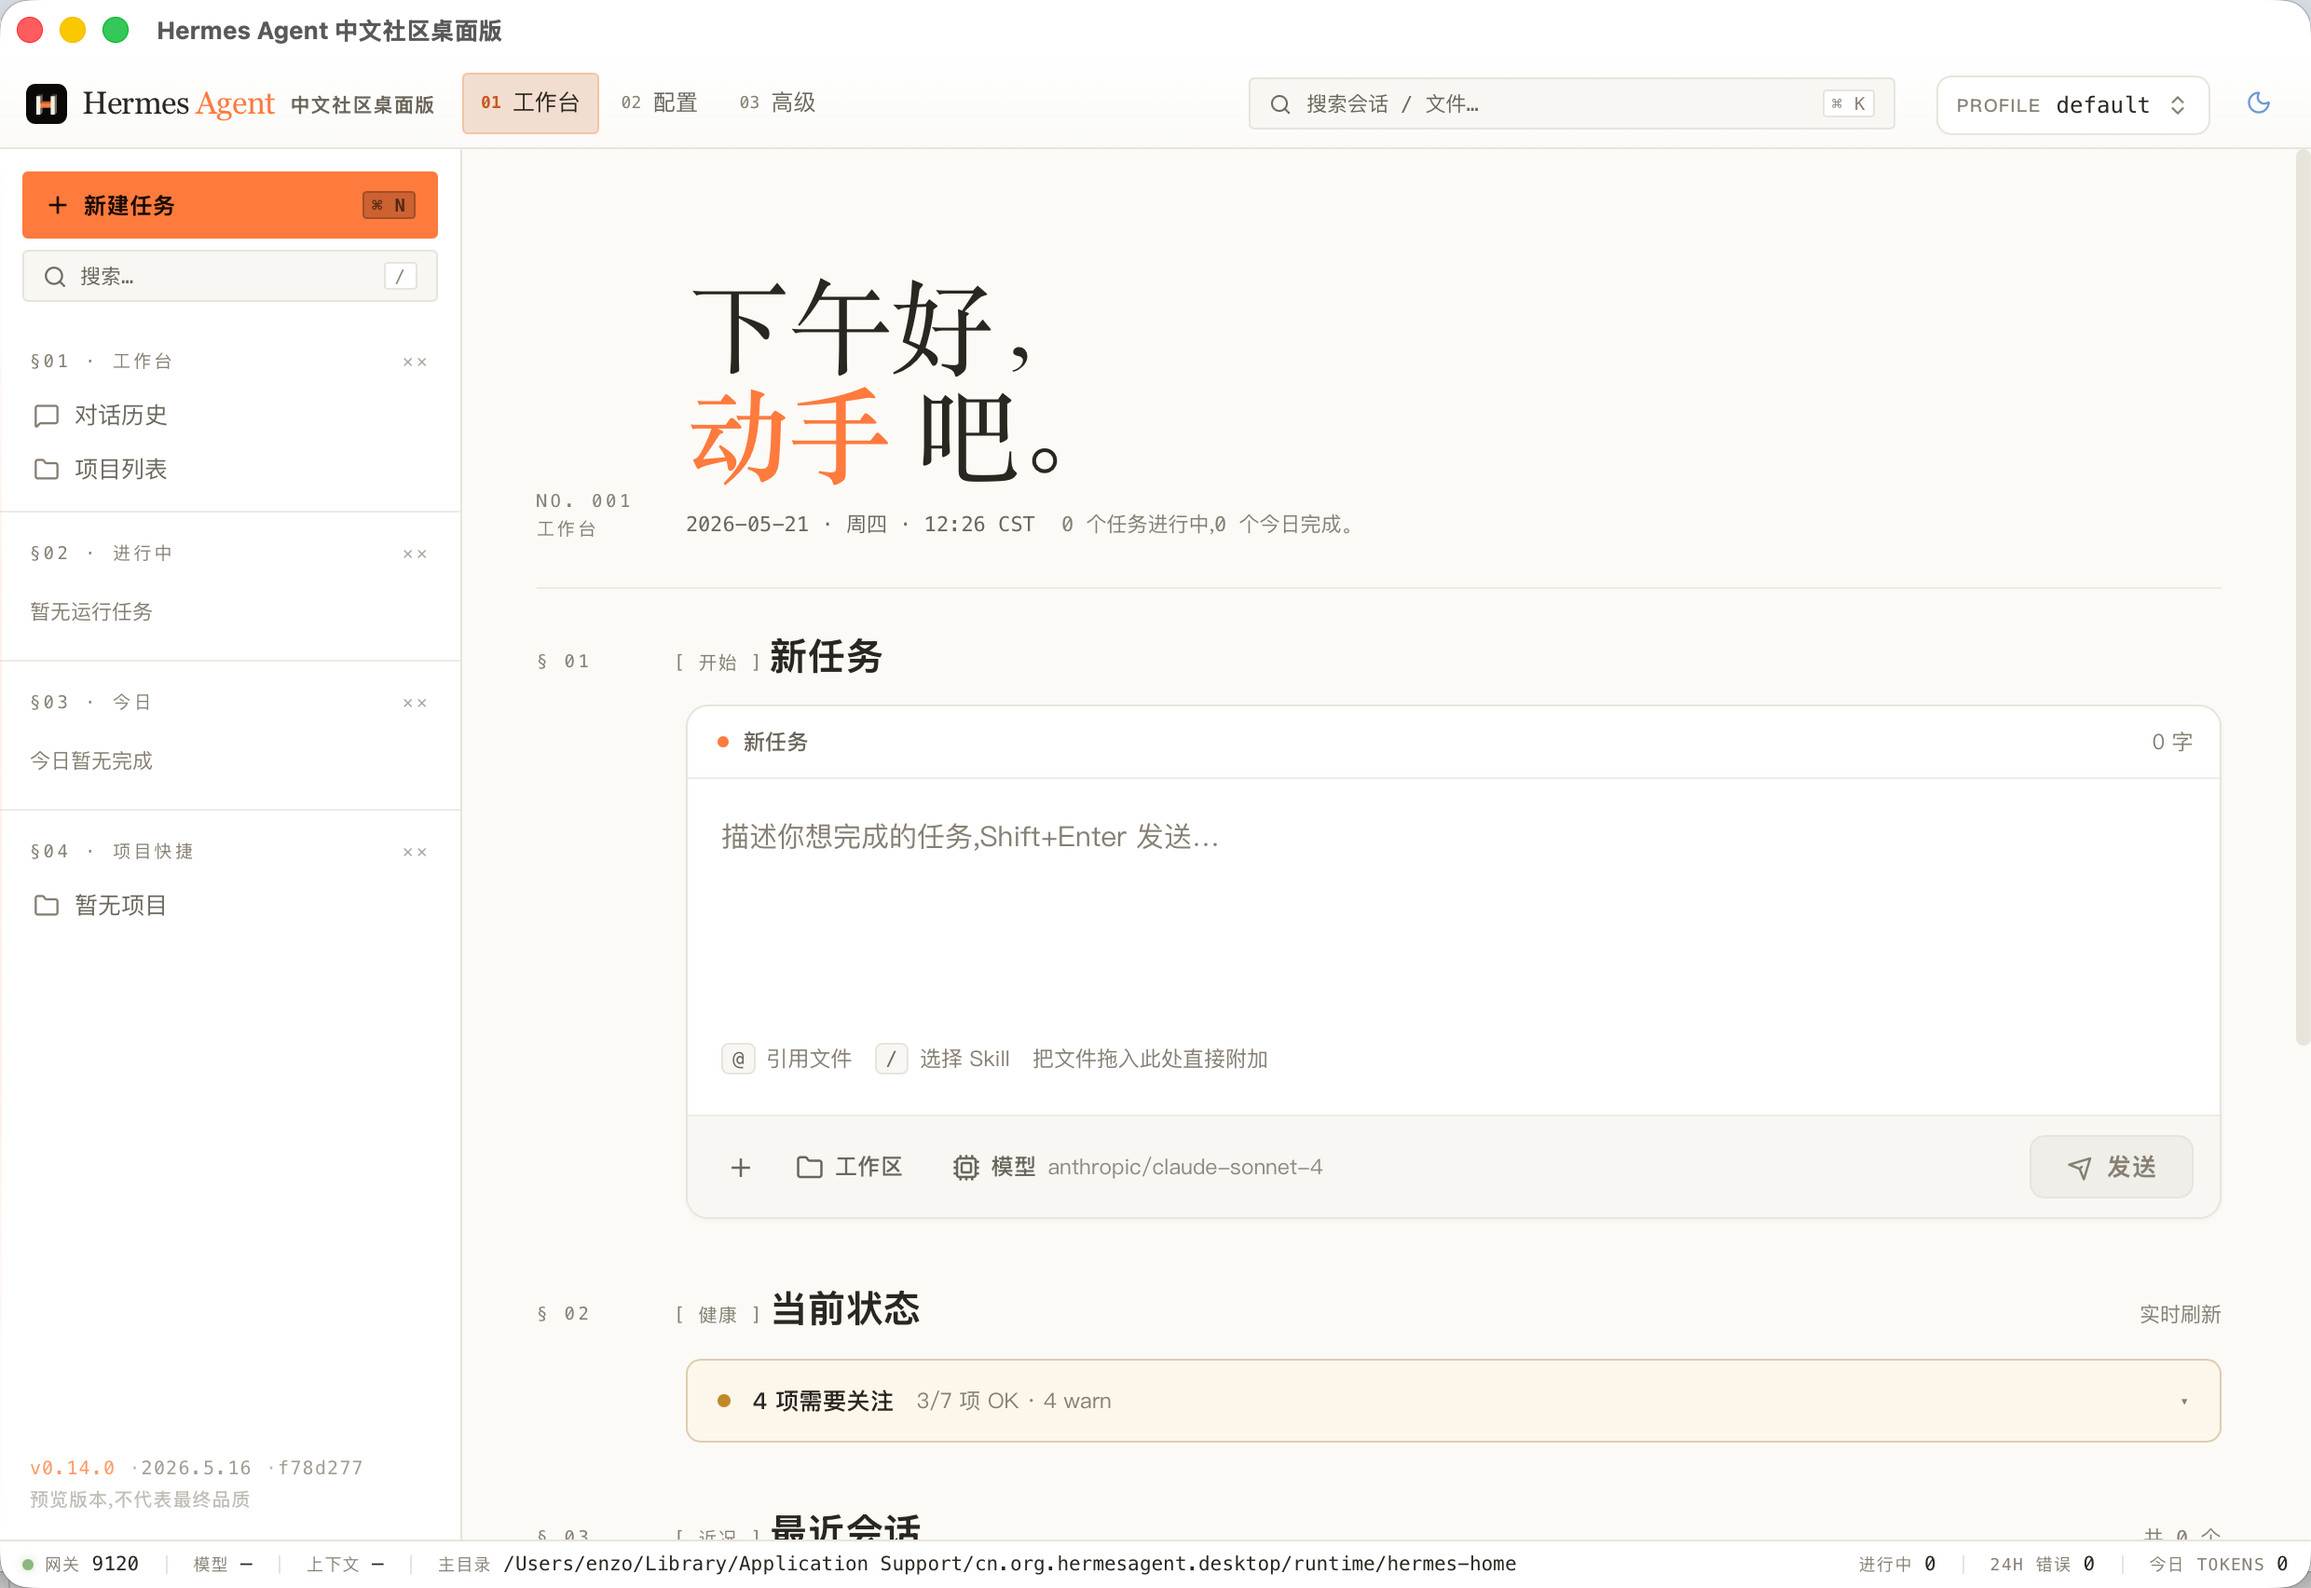
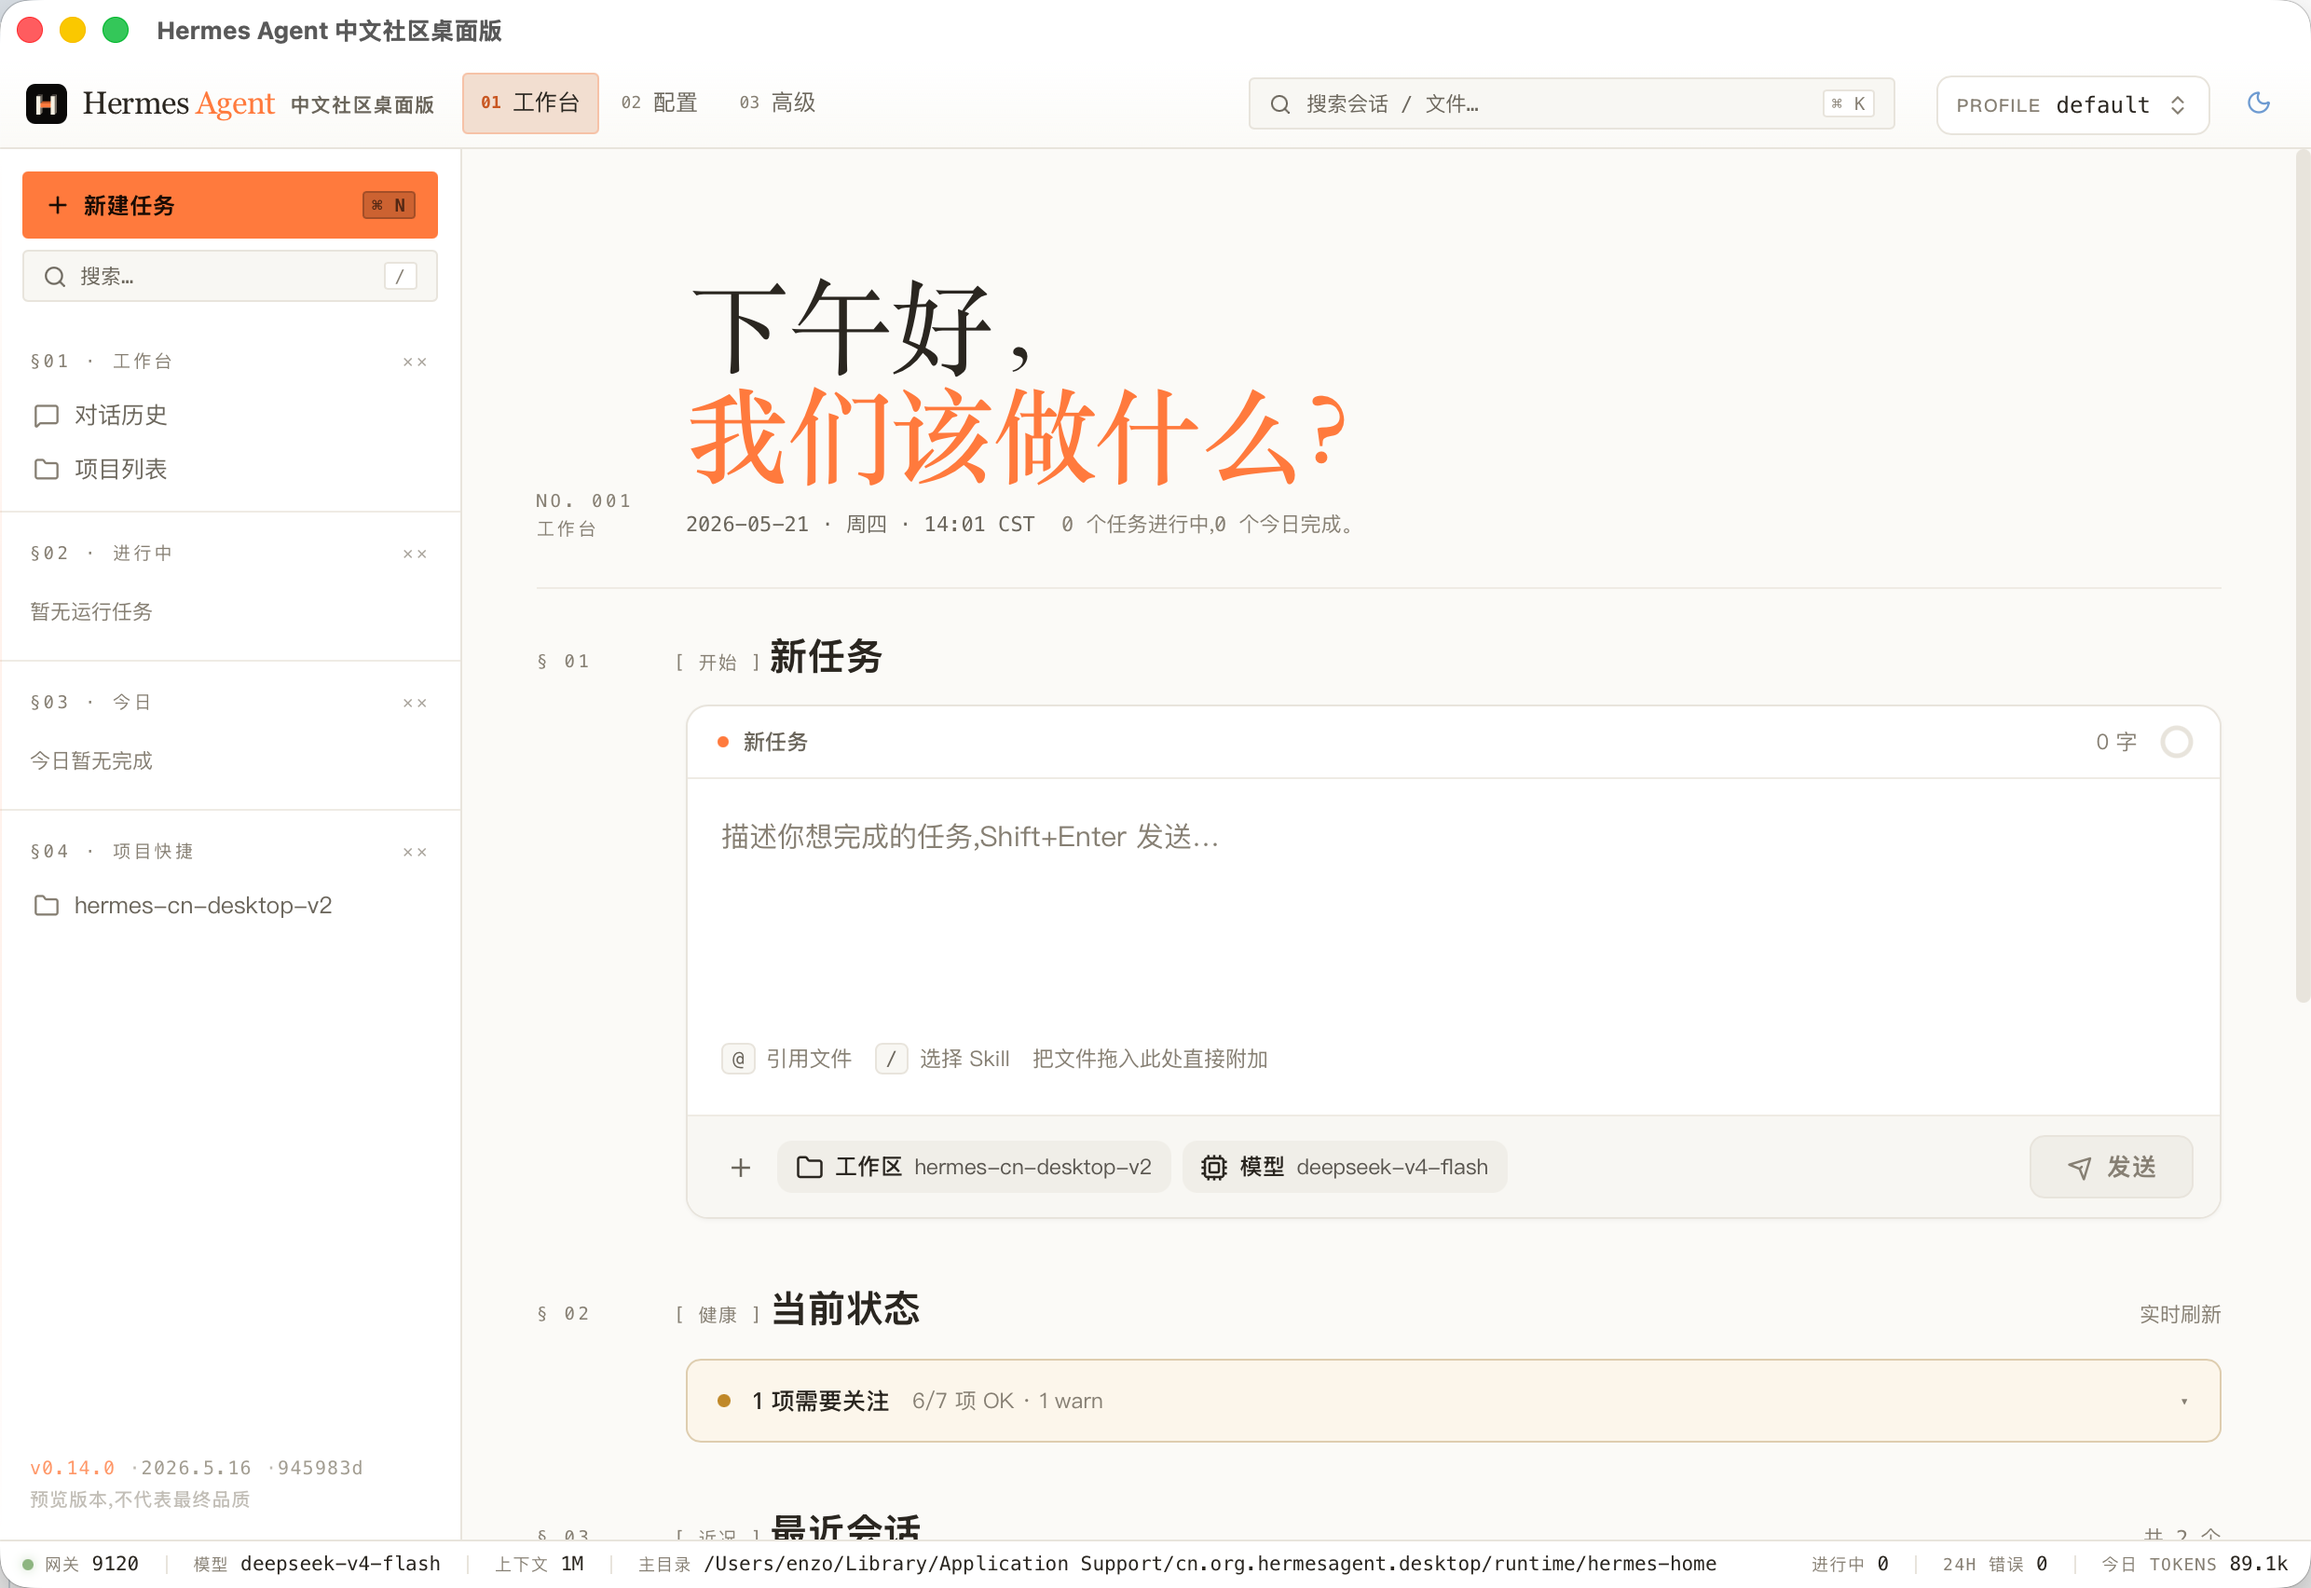
docs: add new demo screenshots

diff --git a/README.md b/README.md
@@ -25,19 +25,27 @@ Click the preview image below, or open the [MP4 demo](./docs/assets/demo/hermes-
 
 ### Screenshots
 
-These screenshots show the main workspace, light and dark themes, built-in Skills, model provider setup, memory management, and chat workflows.
+These screenshots show the main workspace, light and dark themes, configuration, built-in Skills, model provider setup, memory, runtime diagnostics, logs, chat history, chat responses, and project review workflows.
 
 | Workbench, light theme | Workbench, dark theme |
 | --- | --- |
 | <img src="./docs/assets/demo/screenshots/workbench-light.png" alt="Hermes Agent CN Desktop workspace in light theme" width="100%"> | <img src="./docs/assets/demo/screenshots/workbench-dark.png" alt="Hermes Agent CN Desktop workspace in dark theme" width="100%"> |
 
-| Built-in Skills | Model provider setup |
+| Configuration | Built-in Skills |
 | --- | --- |
-| <img src="./docs/assets/demo/screenshots/skills-library.png" alt="Built-in Skills management page" width="100%"> | <img src="./docs/assets/demo/screenshots/model-provider-setup.png" alt="Model provider setup page" width="100%"> |
+| <img src="./docs/assets/demo/screenshots/config.png" alt="Configuration overview page" width="100%"> | <img src="./docs/assets/demo/screenshots/skills-library.png" alt="Built-in Skills management page" width="100%"> |
 
-| Memory management | Chat response |
+| Model provider setup | Memory management |
 | --- | --- |
-| <img src="./docs/assets/demo/screenshots/memory-panel.png" alt="Memory management page" width="100%"> | <img src="./docs/assets/demo/screenshots/chat-response.png" alt="Chat response workflow" width="100%"> |
+| <img src="./docs/assets/demo/screenshots/model-provider-setup.png" alt="Model provider setup page" width="100%"> | <img src="./docs/assets/demo/screenshots/memory-panel.png" alt="Memory management page" width="100%"> |
+
+| Runtime diagnostics | Logs |
+| --- | --- |
+| <img src="./docs/assets/demo/screenshots/runtime.png" alt="Runtime diagnostics page" width="100%"> | <img src="./docs/assets/demo/screenshots/log.png" alt="Log viewer page" width="100%"> |
+
+| Chat history | Chat response |
+| --- | --- |
+| <img src="./docs/assets/demo/screenshots/chat-history.png" alt="Chat history page" width="100%"> | <img src="./docs/assets/demo/screenshots/chat-response.png" alt="Chat response workflow" width="100%"> |
 
 | Project review workflow |
 | --- |

diff --git a/README.zh-CN.md b/README.zh-CN.md
@@ -25,19 +25,27 @@ Hermes Agent CN Desktop 是 Hermes Agent 中文社区推出的桌面客户端，
 
 ### 界面截图
 
-下面的截图展示了工作台、明暗主题、内置 Skills、模型服务商配置、记忆管理和聊天工作流。
+下面的截图展示了工作台、明暗主题、配置、内置 Skills、模型服务商配置、记忆管理、运行时诊断、日志、对话历史、聊天回复和项目 Review 工作流。
 
 | 工作台（浅色主题） | 工作台（深色主题） |
 | --- | --- |
 | <img src="./docs/assets/demo/screenshots/workbench-light.png" alt="Hermes Agent 中文社区桌面版浅色主题工作台" width="100%"> | <img src="./docs/assets/demo/screenshots/workbench-dark.png" alt="Hermes Agent 中文社区桌面版深色主题工作台" width="100%"> |
 
-| 内置 Skills | 模型服务商配置 |
+| 配置总览 | 内置 Skills |
 | --- | --- |
-| <img src="./docs/assets/demo/screenshots/skills-library.png" alt="内置 Skills 管理页面" width="100%"> | <img src="./docs/assets/demo/screenshots/model-provider-setup.png" alt="模型服务商配置页面" width="100%"> |
+| <img src="./docs/assets/demo/screenshots/config.png" alt="配置总览页面" width="100%"> | <img src="./docs/assets/demo/screenshots/skills-library.png" alt="内置 Skills 管理页面" width="100%"> |
 
-| 记忆管理 | 聊天回复 |
+| 模型服务商配置 | 记忆管理 |
 | --- | --- |
-| <img src="./docs/assets/demo/screenshots/memory-panel.png" alt="记忆管理页面" width="100%"> | <img src="./docs/assets/demo/screenshots/chat-response.png" alt="聊天回复工作流" width="100%"> |
+| <img src="./docs/assets/demo/screenshots/model-provider-setup.png" alt="模型服务商配置页面" width="100%"> | <img src="./docs/assets/demo/screenshots/memory-panel.png" alt="记忆管理页面" width="100%"> |
+
+| 运行时诊断 | 日志查看 |
+| --- | --- |
+| <img src="./docs/assets/demo/screenshots/runtime.png" alt="运行时诊断页面" width="100%"> | <img src="./docs/assets/demo/screenshots/log.png" alt="日志查看页面" width="100%"> |
+
+| 对话历史 | 聊天回复 |
+| --- | --- |
+| <img src="./docs/assets/demo/screenshots/chat-history.png" alt="对话历史页面" width="100%"> | <img src="./docs/assets/demo/screenshots/chat-response.png" alt="聊天回复工作流" width="100%"> |
 
 | 项目 Review 工作流 |
 | --- |
